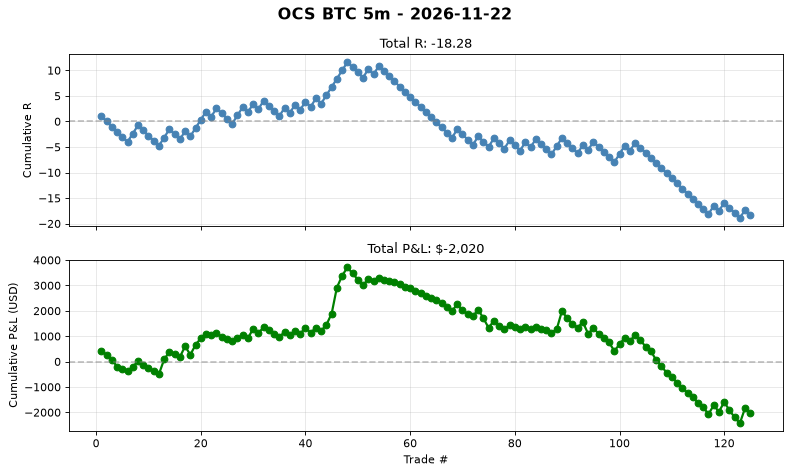
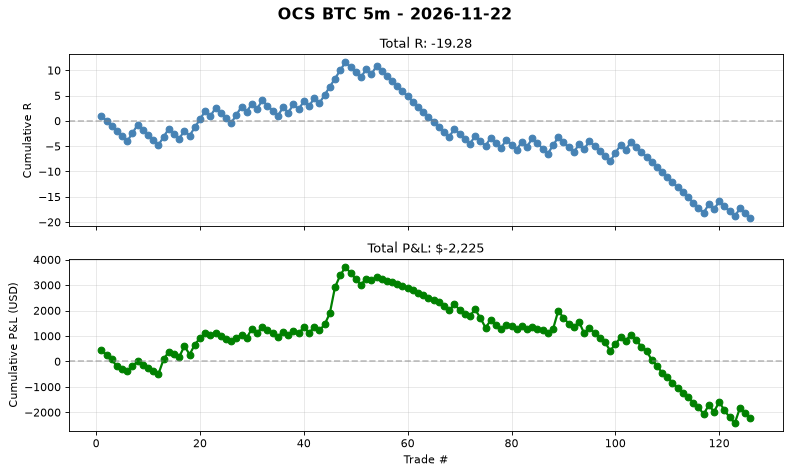
auto(ocs-btc): signal log 2026-11-21T22:24 trades=126

diff --git a/automation/reports/ocs_btc_5m/daily/2026-11-22.md b/automation/reports/ocs_btc_5m/daily/2026-11-22.md
@@ -2,4 +2,4 @@
 
 **No trades today.**
 
-Cumulative stats: 125 trades | WR 32.8% | avg R -0.146
+Cumulative stats: 126 trades | WR 32.5% | avg R -0.153
